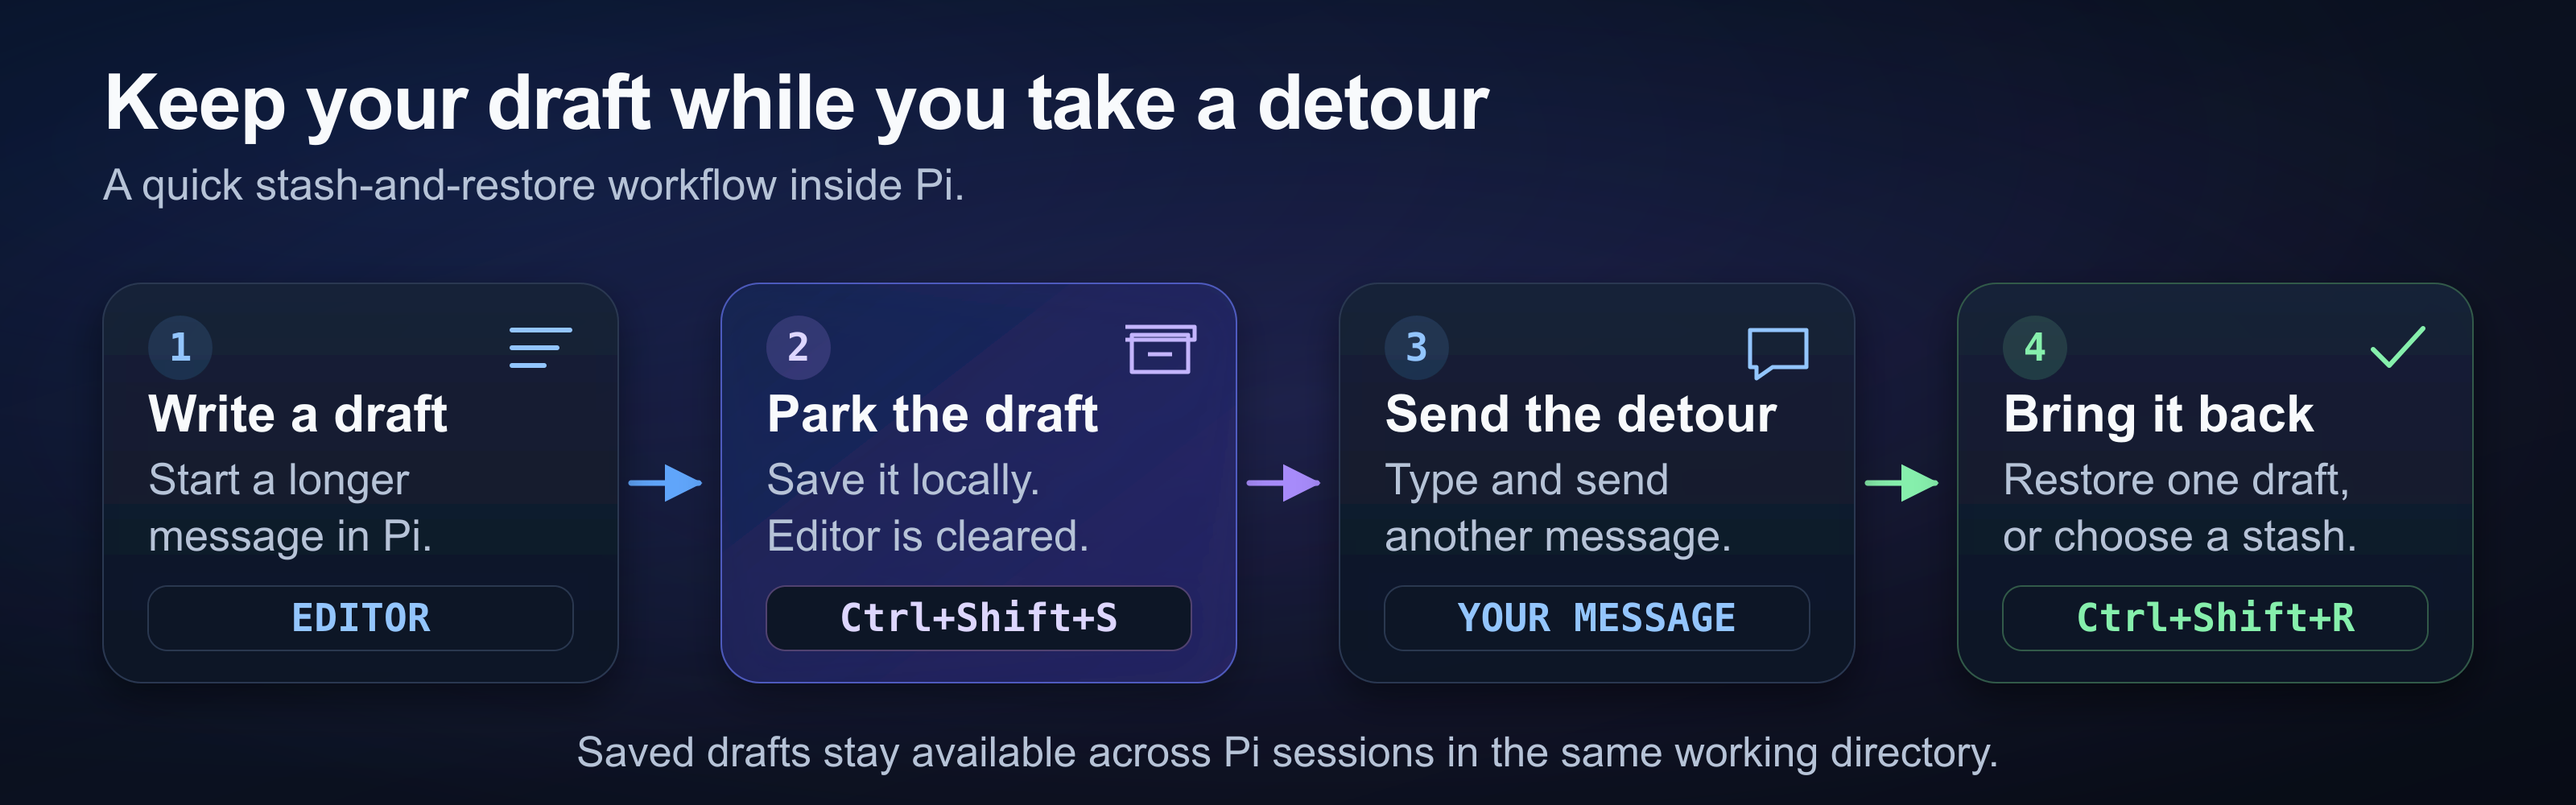
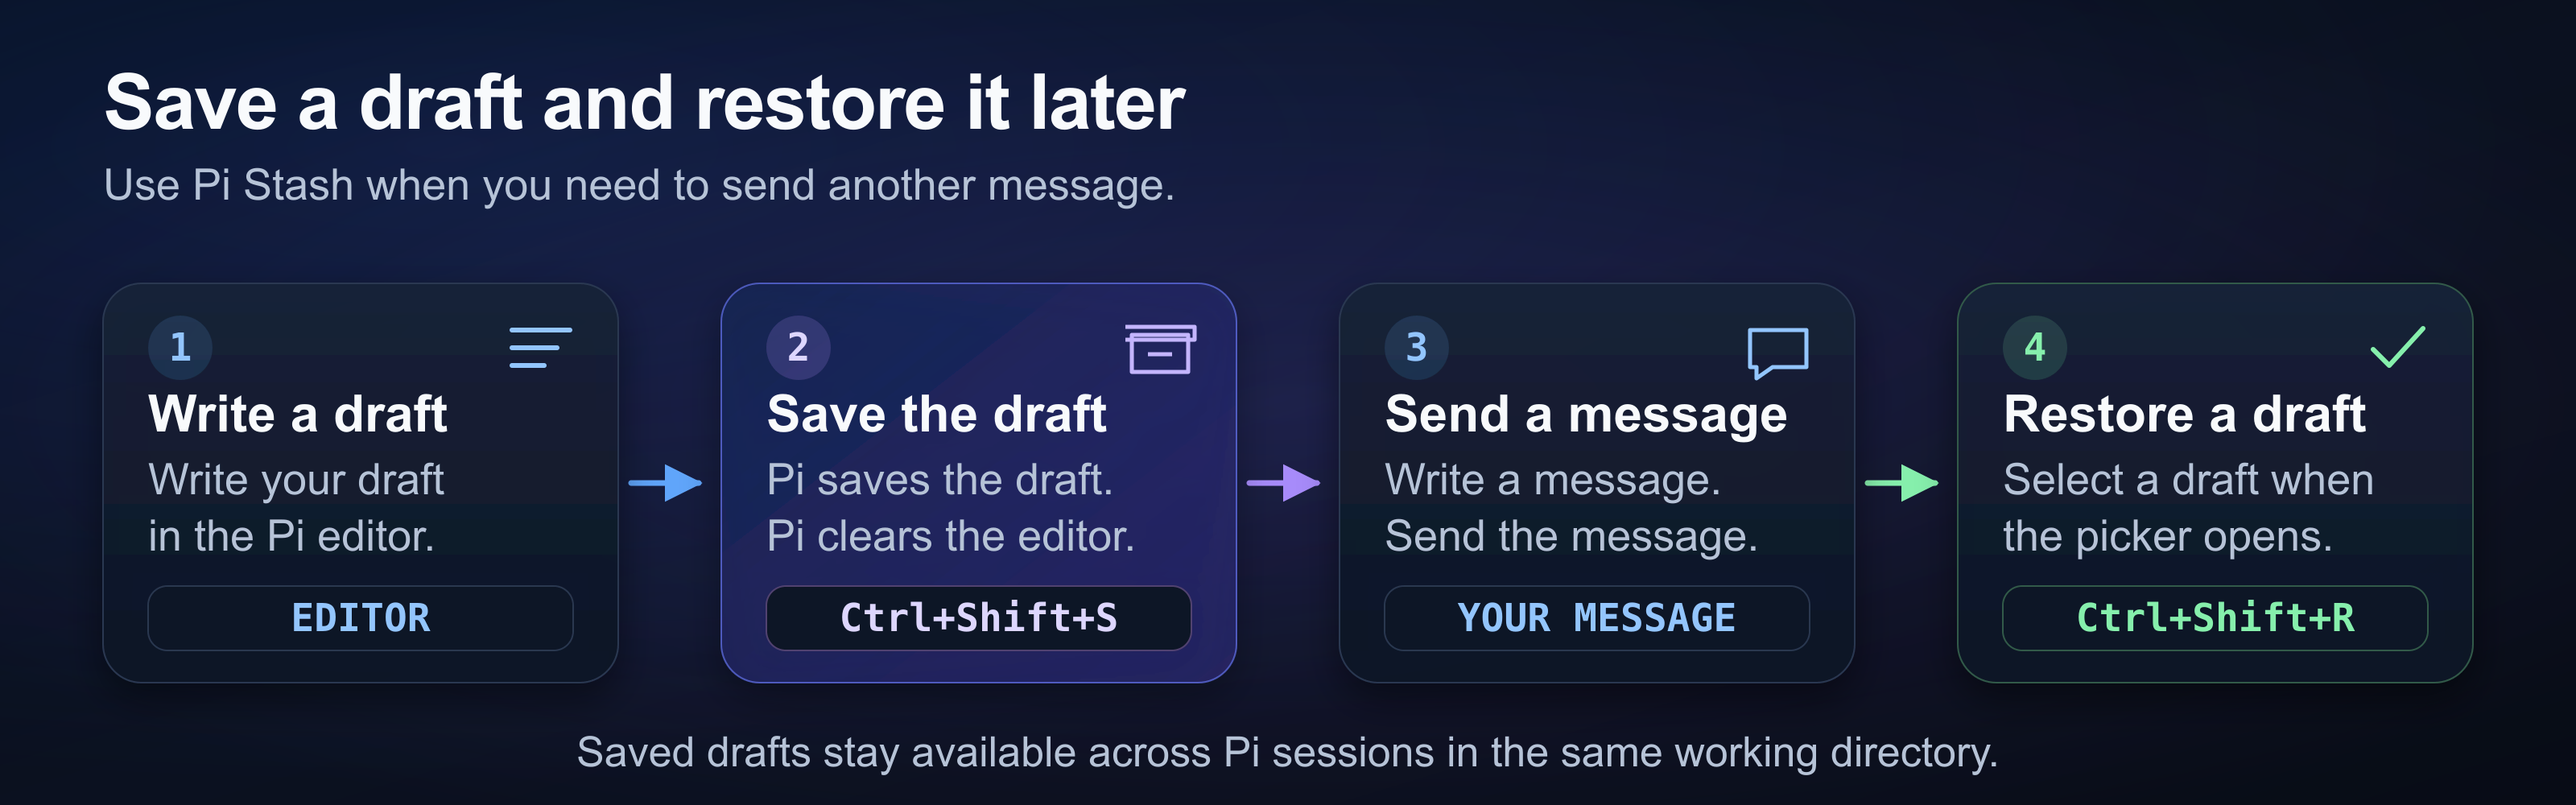
docs: apply simplified technical English to README

diff --git a/README.md b/README.md
@@ -1,61 +1,64 @@
 # pi-stash
 
-Pi Stash saves the draft you're typing in [Pi](https://github.com/earendil-works/pi) so you can send another message and return to it later. Use it when a quick question or correction interrupts a longer prompt.
+Pi Stash is a [Pi](https://github.com/earendil-works/pi) extension that saves editor drafts. Use it to save a draft before you send another message.
 
-![Four-step Pi Stash workflow: write a draft, save it and clear the editor with Ctrl+Shift+S, send another message, then restore or choose a draft with Ctrl+Shift+R.](.github/readme/draft-workflow.png)
+![Pi Stash saves a draft before you send another message, then restores the draft to the editor.](.github/readme/draft-workflow.png)
 
-Park your draft, send the interruption, then bring the draft back into the editor.
+The diagram shows how to save and restore a draft in Pi.
 
 ## Install
 
-Requires Pi 1.0.0 or later and Node.js 24.15.0 or later.
+Use Pi 1.0.0 or later and Node.js 24.15.0 or later.
 
 ```bash
 pi install npm:@fitchmultz/pi-stash
 ```
 
-Restart Pi after installing or updating. Then try the [draft workflow](#usage) below.
+Restart Pi after you install or update the extension.
 
-You can also install from GitHub:
-
-```bash
-pi install https://github.com/fitchmultz/pi-stash
-```
+See the [development guide](docs/development.md) for GitHub and local installation.
 
 ## Usage
 
-1. Start typing a draft, such as a detailed code-review request.
-2. Press Ctrl+Shift+S to save it and clear the editor.
-3. Type and send your other message.
-4. Press Ctrl+Shift+R to bring the draft back. If you have several stashes, choose one from the picker.
-5. Continue editing and send when you're ready.
+1. Write a draft in the editor.
+2. Press Ctrl+Shift+S to save the draft and clear the editor.
+3. Send another message.
+4. Press Ctrl+Shift+R to restore a draft.
+5. Continue to edit the draft.
 
-Restoring into an editor that already has text pastes the draft into that text. A restored draft is removed from the stash. The footer shows how many drafts are saved.
+Pi Stash opens a picker when more than one draft exists. In the picker, press Enter to restore the selected draft.
+
+Pi Stash removes a draft from storage after you restore it. If the editor contains text, Pi Stash pastes the draft into that text.
+
+The footer shows the saved draft count.
 
 ## Commands and shortcuts
 
-| Action | Shortcut or command |
+| Shortcut or command | Action |
 | --- | --- |
-| Save the current draft and clear the editor | Ctrl+Shift+S or `/stash` |
-| Save specific text without clearing the editor | `/stash some text` |
-| Restore the only draft, or choose from several | Ctrl+Shift+R |
-| Browse, restore, or delete saved drafts | `/stash-list` |
+| `/stash` | Saves the editor draft and clears the editor |
+| `/stash some text` | Saves the supplied text and leaves the editor unchanged |
+| `/stash-list` | Opens the picker to restore or delete drafts |
 
-In the picker, use ↑/↓ to choose a draft, Enter to restore, and Esc to cancel. Ctrl+D deletes the selected draft. Ctrl+X asks before clearing all drafts. The picker follows Pi's navigation and confirmation keybindings.
+The picker uses Pi's navigation and confirmation keys. Press Ctrl+D to delete the selected draft. Press Ctrl+X to clear all drafts after confirmation.
 
-If your terminal doesn't pass a shortcut through, use `/stash` or `/stash-list`.
+If a shortcut does not work in your terminal, use `/stash` or `/stash-list`.
 
-## Your saved drafts
+## Saved drafts
 
-You can keep up to 10 drafts per working directory, newest first. Saving an 11th drops the oldest. Blank drafts are ignored; `/stash some text` keeps leading and trailing whitespace.
+Pi Stash stores up to 10 drafts per working directory, newest first. A new draft replaces the oldest draft when the list is full. Save important drafts elsewhere before you reach this limit.
 
-Drafts are saved locally on every change, so they're still there after a restart or crash. Pi windows and sessions in the same directory share them. Avoid changing the stash in two windows at once: the last write wins.
+Pi Stash saves drafts as unencrypted JSON in your Pi agent directory. Saved drafts remain available after a restart or crash.
 
-Saved drafts are unencrypted JSON in your Pi agent directory. The [storage and client reference](docs/reference.md) has the file locations, behavior in other clients, and details on importing drafts from older versions.
+Pi windows and sessions in the same working directory share saved drafts. Simultaneous changes in separate windows can overwrite drafts. Change saved drafts from one window at a time.
+
+Pi Stash ignores blank drafts. The `/stash some text` command preserves leading and trailing whitespace.
+
+See the [storage and client reference](docs/reference.md) for file locations, client behavior, and imports from older versions.
 
 ## Development
 
-The [development guide](docs/development.md) covers local installation, tests, host compatibility checks, and the automatic npm release procedure.
+See the [development guide](docs/development.md) for tests, compatibility checks, and releases.
 
 [Changelog](CHANGELOG.md) · [Report a problem](https://github.com/fitchmultz/pi-stash/issues)
 

diff --git a/docs/reference.md b/docs/reference.md
@@ -24,7 +24,7 @@ An unreadable or invalid stash file causes an error instead of being overwritten
 
 Restoring into an empty interactive editor sets its text to the draft. If the editor already contains text, restoring pastes the draft into it. A successful restore removes that draft from the stash.
 
-With one draft, **Ctrl+Shift+R** restores it directly. With several, it opens a picker. `/stash-list` always opens the picker when drafts are available. The picker supports native Pi selection and confirmation keybindings, plus **Ctrl+D** to delete the selection and **Ctrl+X** to clear all after confirmation.
+With one draft, **Ctrl+Shift+R** restores it directly. With several, it opens a picker. `/stash-list` always opens the picker when drafts are available. The default picker keys are **↑/↓** to select a draft, **Enter** to restore it, and **Esc** to cancel. The picker supports native Pi selection and confirmation keybindings, plus **Ctrl+D** to delete the selection and **Ctrl+X** to clear all after confirmation.
 
 Fullscreen Pi supports native mouse selection. Regular mode retains keyboard selection and terminal-owned scrollback.
 

diff --git a/docs/development.md b/docs/development.md
@@ -2,6 +2,16 @@
 
 [Back to the README](../README.md)
 
+## GitHub installation
+
+You can install directly from this repository:
+
+```bash
+pi install https://github.com/fitchmultz/pi-stash
+```
+
+Restart Pi after you install or update the extension.
+
 ## Local setup
 
 Use Node.js **24.15.0 or later** and npm. The repository declares its npm version in `package.json`.
